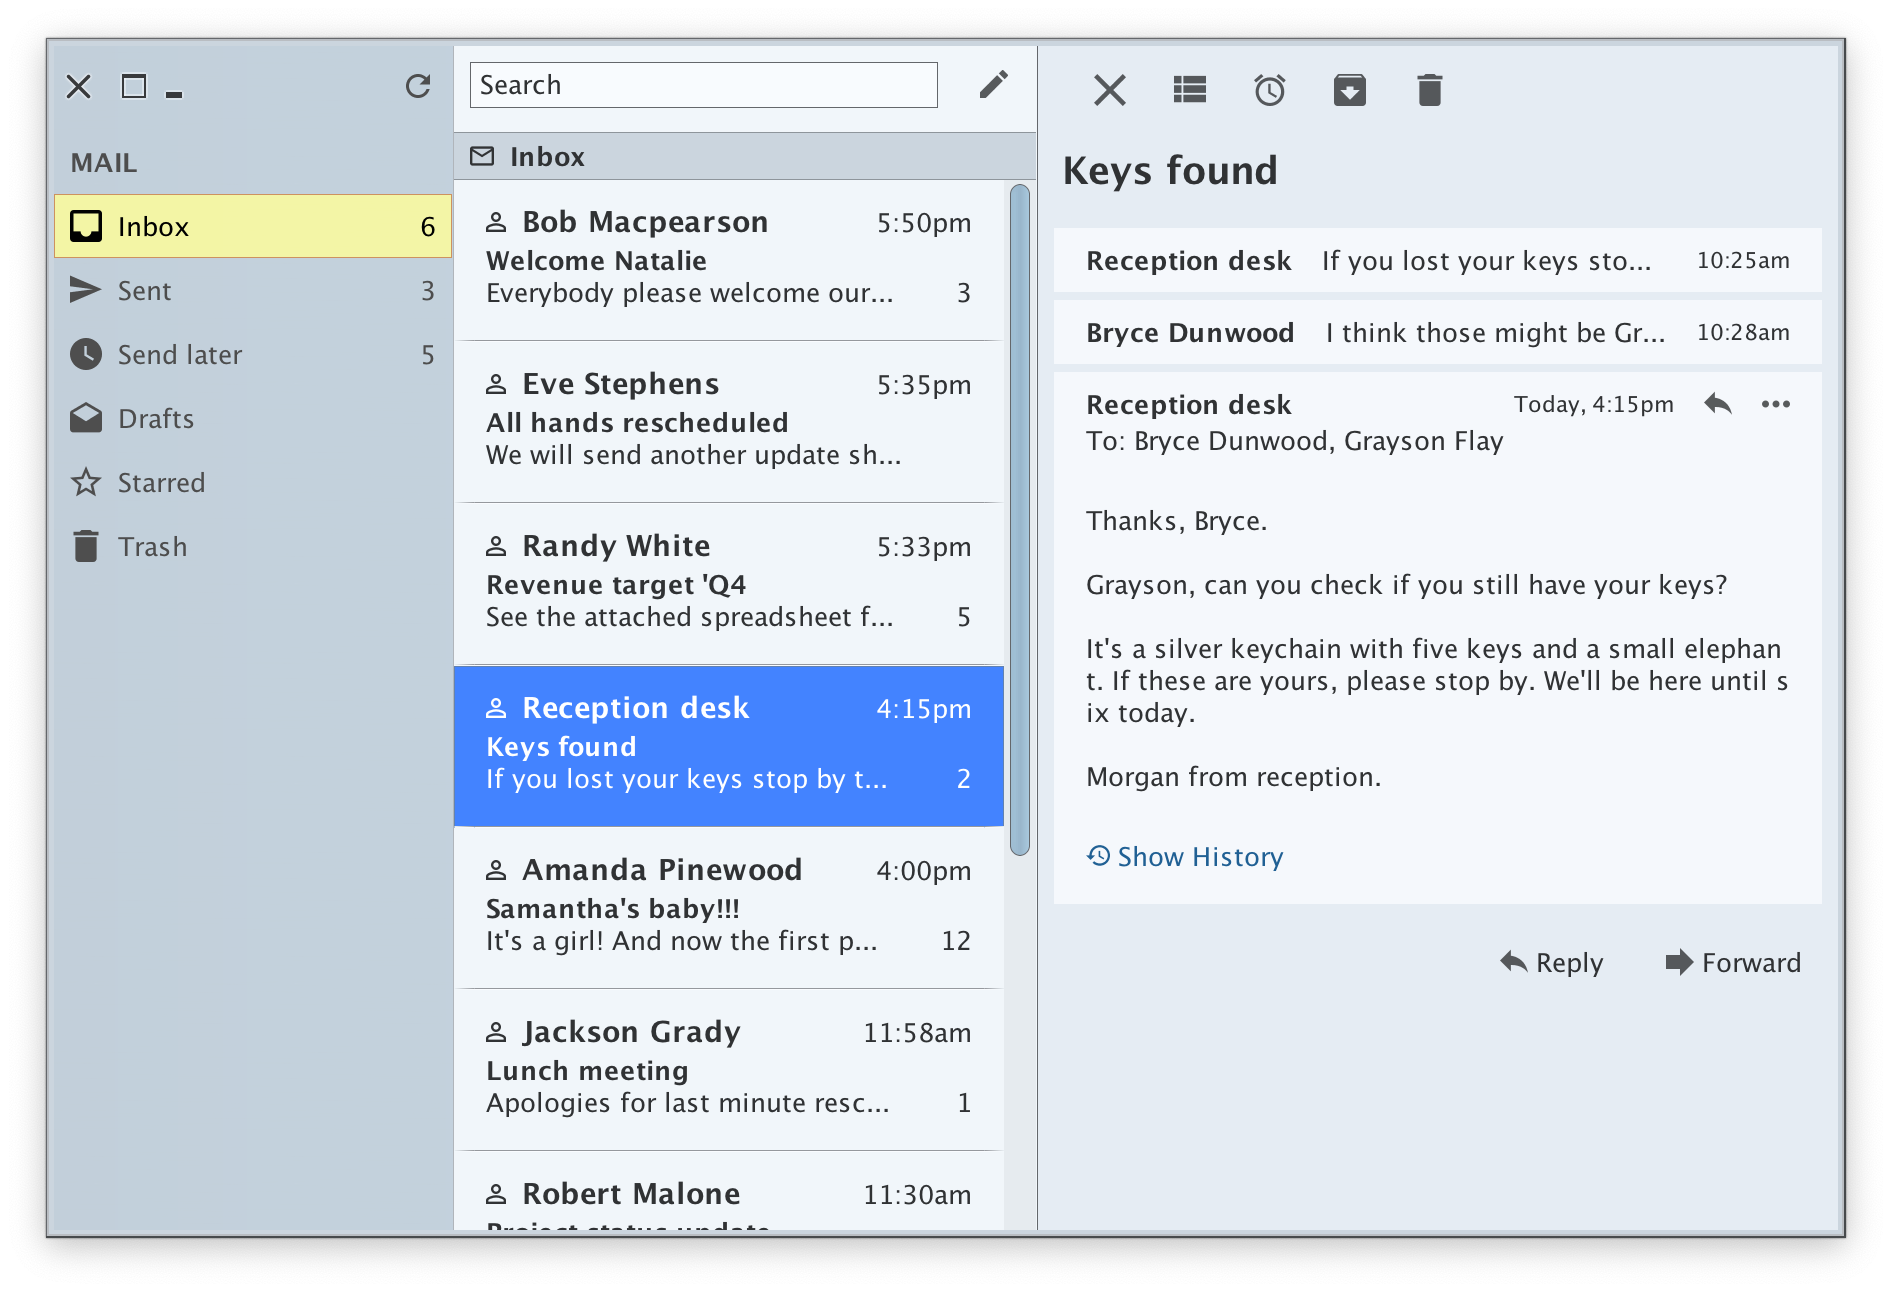
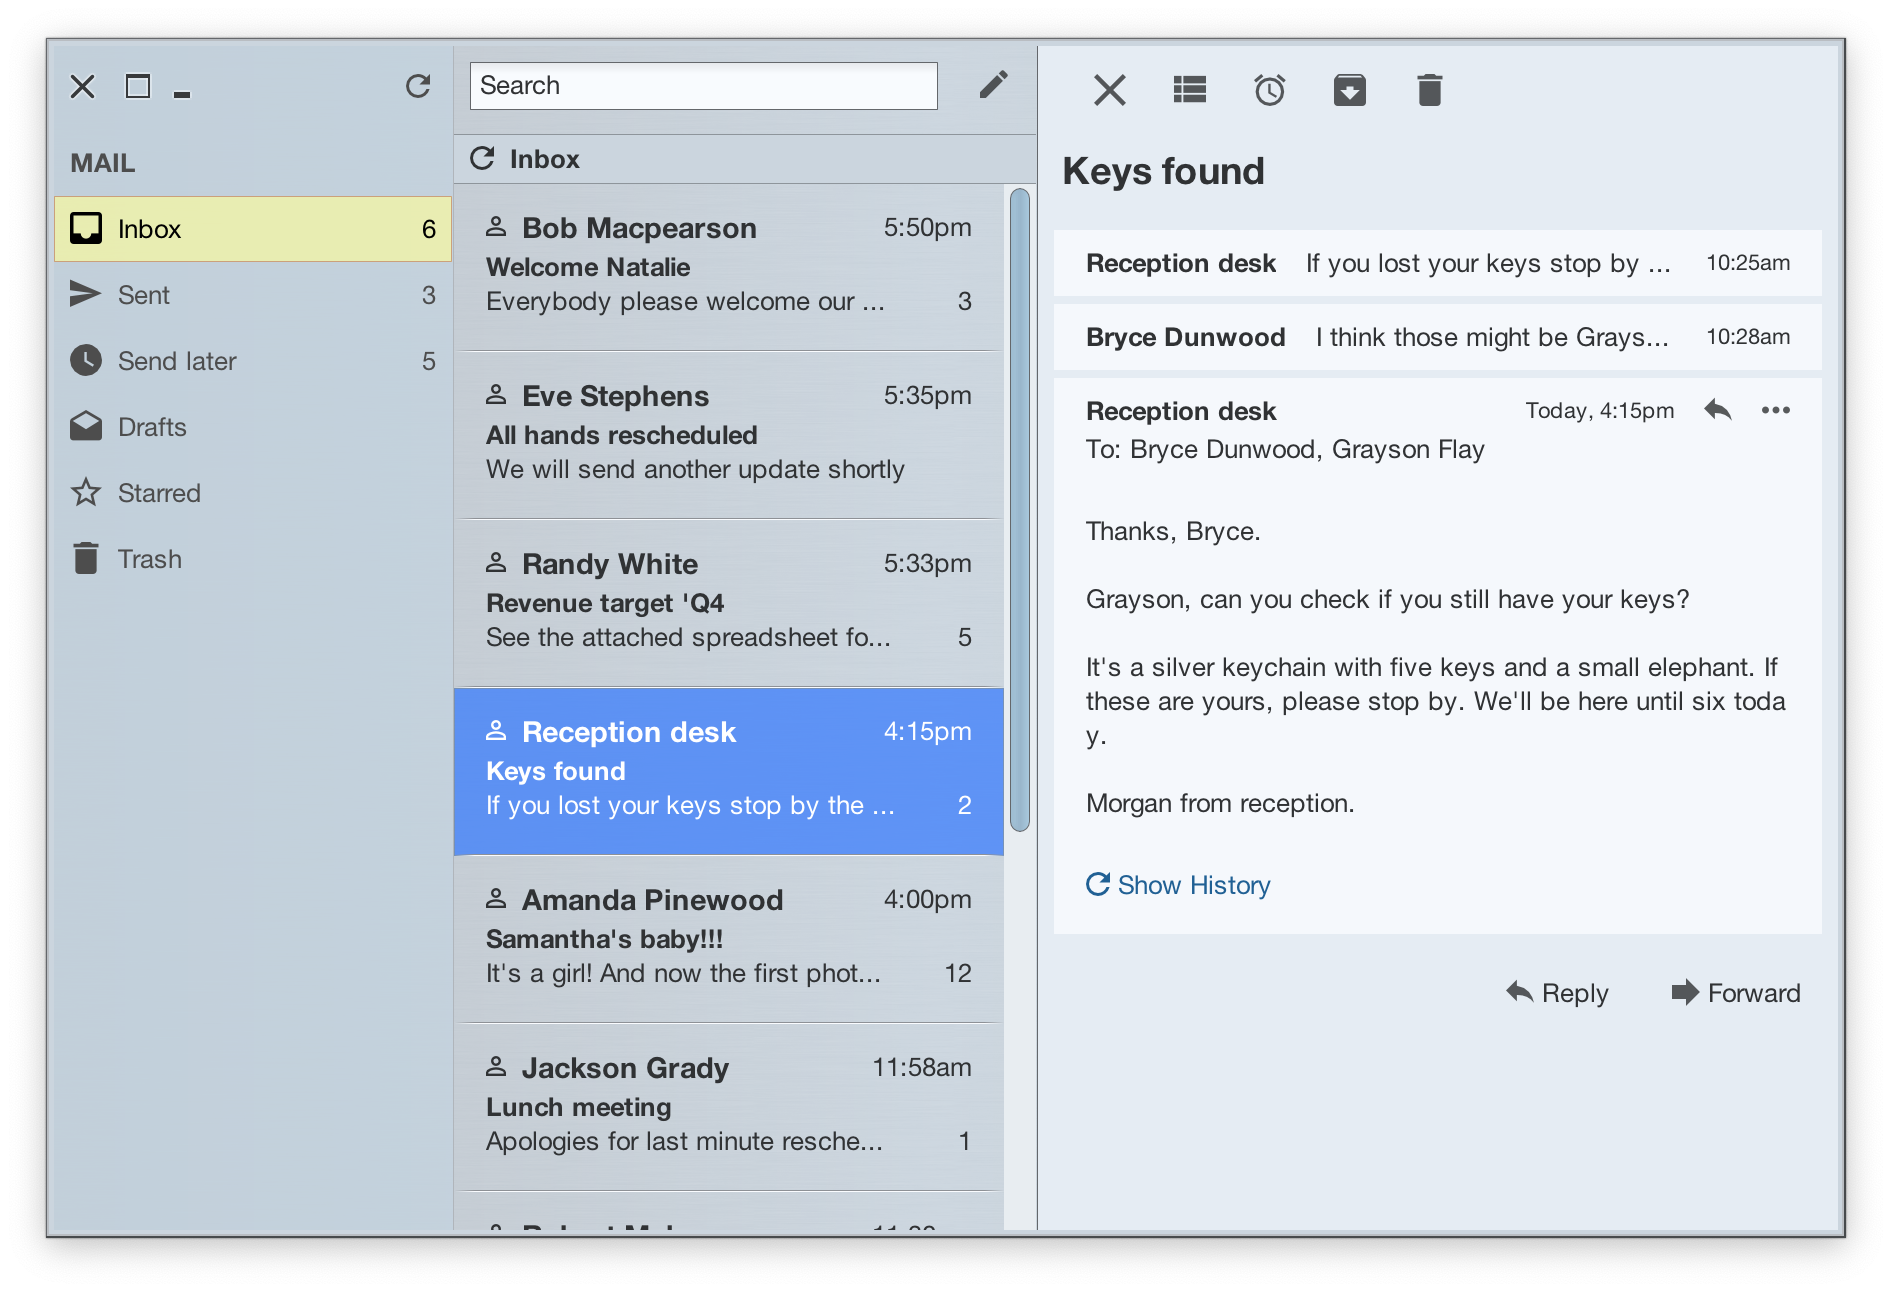
Minor fixes
Consistent naming in code and documentation, updated screenshot of the Visor Mail demo

diff --git a/component/src/main/java/org/pushingpixels/radiance/component/api/layout/TransitionLayout.java b/component/src/main/java/org/pushingpixels/radiance/component/api/layout/TransitionLayout.java
@@ -59,14 +59,14 @@ public class TransitionLayout implements LayoutManager {
      * are playing with calls to {@link Component#setVisible(boolean)}, this
      * property tracks the "real" visibility.
      */
-    private static final String SHOWING = "radiance.components.internal.layout.showing";
+    private static final String SHOWING = "radiance.component.internal.layout.showing";
 
     /**
      * Client property for storing the current bounds of a component. This is
      * used to perform animations on components that stay visible but change
      * location.
      */
-    private static final String BOUNDS = "radiance.components.internal.layout.bounds";
+    private static final String BOUNDS = "radiance.component.internal.layout.bounds";
 
     private WeakHashMap<Component, Timeline> boundsMap = new WeakHashMap<>();
 

diff --git a/component/src/main/java/org/pushingpixels/radiance/component/internal/ui/ribbon/AbstractBandControlPanelUI.java b/component/src/main/java/org/pushingpixels/radiance/component/internal/ui/ribbon/AbstractBandControlPanelUI.java
@@ -54,11 +54,11 @@ abstract class AbstractBandControlPanelUI extends BandControlPanelUI {
 
     protected JCommandButton forSizing;
 
-    public static final String TOP_ROW = "radiance.components.internal.ribbonBandControlPanel.topRow";
+    public static final String TOP_ROW = "radiance.component.internal.ribbonBandControlPanel.topRow";
 
-    public static final String MID_ROW = "radiance.components.internal.ribbonBandControlPanel.midRow";
+    public static final String MID_ROW = "radiance.component.internal.ribbonBandControlPanel.midRow";
 
-    public static final String BOTTOM_ROW = "radiance.components.internal.ribbonBandControlPanel.bottomRow";
+    public static final String BOTTOM_ROW = "radiance.component.internal.ribbonBandControlPanel.bottomRow";
 
     @Override
     public void installUI(JComponent c) {

diff --git a/component/src/main/java/org/pushingpixels/radiance/component/internal/utils/ComponentUtilities.java b/component/src/main/java/org/pushingpixels/radiance/component/internal/utils/ComponentUtilities.java
@@ -56,10 +56,10 @@ import java.util.List;
  */
 public class ComponentUtilities {
     public static final String TASKBAR_PROJECTION =
-            "radiance.components.internal.ribbon.taskbarProjection";
+            "radiance.component.internal.ribbon.taskbarProjection";
 
     public static final String TASKBAR_COMMAND =
-            "radiance.components.internal.ribbon.taskbarCommand";
+            "radiance.component.internal.ribbon.taskbarCommand";
 
     public static int getHLayoutGap(JCommandButton commandButton) {
         Font font = commandButton.getFont();

diff --git a/component/src/main/java/org/pushingpixels/radiance/component/internal/ui/common/BasicCommandButtonPanelUI.java b/component/src/main/java/org/pushingpixels/radiance/component/internal/ui/common/BasicCommandButtonPanelUI.java
@@ -50,7 +50,7 @@ public abstract class BasicCommandButtonPanelUI extends CommandButtonPanelUI {
      * Client property to mark the the command button panel to not draw the background fill
      */
     public static final String SKIP_BACKGROUND_FILL =
-            "radiance.components.internal.commandButtonPanel.ui.skipBackgroundFill";
+            "radiance.component.internal.commandButtonPanel.ui.skipBackgroundFill";
 
     /**
      * The associated command button panel.

diff --git a/component/src/main/java/org/pushingpixels/radiance/component/internal/ui/ribbon/BasicRibbonUI.java b/component/src/main/java/org/pushingpixels/radiance/component/internal/ui/ribbon/BasicRibbonUI.java
@@ -828,7 +828,7 @@ public abstract class BasicRibbonUI extends RibbonUI {
 
     protected abstract class TaskToggleButtonsHostPanel extends JPanel {
         private static final String IS_SQUISHED =
-                "radiance.components.internal.ribbon.taskToggleButtonsHostPanel.isSquished";
+                "radiance.component.internal.ribbon.taskToggleButtonsHostPanel.isSquished";
 
         @Override
         protected void paintComponent(Graphics g) {

diff --git a/component/src/main/java/org/pushingpixels/radiance/component/internal/ui/common/BasicCommandButtonUI.java b/component/src/main/java/org/pushingpixels/radiance/component/internal/ui/common/BasicCommandButtonUI.java
@@ -98,7 +98,7 @@ public abstract class BasicCommandButtonUI extends CommandButtonUI {
      * @see #disposePopupsActionListener
      */
     public static final String DONT_DISPOSE_POPUPS =
-            "radiance.components.internal.commandButton.ui.dontDisposePopups";
+            "radiance.component.internal.commandButton.ui.dontDisposePopups";
 
     /**
      * This listener disposes all popup panels when button's action is activated. An example of

diff --git a/component/src/main/java/org/pushingpixels/radiance/component/internal/ui/common/popup/BasicCommandPopupMenuUI.java b/component/src/main/java/org/pushingpixels/radiance/component/internal/ui/common/popup/BasicCommandPopupMenuUI.java
@@ -65,7 +65,7 @@ public abstract class BasicCommandPopupMenuUI extends BasicPopupPanelUI {
 
     protected JScrollablePanel<JPanel> menuItemsPanel;
 
-    public static final String FORCE_ICON = "radiance.components.internal.commandPopupMenu.forceIcon";
+    public static final String FORCE_ICON = "radiance.component.internal.commandPopupMenu.forceIcon";
 
     /**
      * Popup panel that hosts groups of icons.

diff --git a/docs/tools/svg-transcoder/svg-transcoder.md b/docs/tools/svg-transcoder/svg-transcoder.md
@@ -35,13 +35,13 @@ The `SvgBatchConverter` class is the entry point into the offline batch converte
 
 Assuming your `RADIANCE_VERSION` variable points to the latest version of the Radiance libraries, here is how you would run the converter pipeline for a single SVG source folder (note that the dependencies versions need to match the Radiance version, see [the list below](#dependency-versions-for-the-radiance-svg-transcoder)):
 
-<code>java <b>-cp</b> ../drop/$RADIANCE_VERSION/tools/radiance-svg-transcoder-$RADIANCE_VERSION.jar:../build/libs-core/batik-all-1.14.jar:../build/libs-core/xml-apis-1.4.01.jar:../build/libs-core/xml-apis-ext-1.3.04.jar:../build/libs-core/xmlgraphics-commons-2.6.jar SvgBatchConverter <b>sourceFolder=</b>../demos/components-demo/src/main/java/org/pushingpixels/radiance/demo/components/svg/tango/transcoded <b>outputPackageName=</b>org.pushingpixels.radiance.demo.component.svg.tango.transcoded <b>templateFile=</b>/org/pushingpixels/radiance/tools/svgtranscoder/api/java/SvgTranscoderTemplateRadiance.templ <b>outputLanguage=</b>java</code>
+<code>java <b>-cp</b> ../drop/$RADIANCE_VERSION/tools/radiance-svg-transcoder-$RADIANCE_VERSION.jar:../build/libs-core/batik-all-1.14.jar:../build/libs-core/xml-apis-1.4.01.jar:../build/libs-core/xml-apis-ext-1.3.04.jar:../build/libs-core/xmlgraphics-commons-2.6.jar SvgBatchConverter <b>sourceFolder=</b>../demos/component-demo/src/main/java/org/pushingpixels/radiance/demo/components/svg/tango/transcoded <b>outputPackageName=</b>org.pushingpixels.radiance.demo.component.svg.tango.transcoded <b>templateFile=</b>/org/pushingpixels/radiance/tools/svgtranscoder/api/java/SvgTranscoderTemplateRadiance.templ <b>outputLanguage=</b>java</code>
 
 The first part is enumerating all the jar files required for the converter - Radiance and Batik. In this sample script, the Radiance SVG transcoder jar is under `drop` folder after running the `gradlew copyJars` command. The Batik dependencies are under `build/libs-core` after running the `gradlew getCoreDependencies` command.
 
 The second part passes the mandatory parameters:
 
-* `../demos/components-demo/src/main/java/org/pushingpixels/radiance/demo/components/svg/tango/transcoded` as the location of the source SVG images - and the output transcoded classes
+* `../demos/component-demo/src/main/java/org/pushingpixels/radiance/demo/components/svg/tango/transcoded` as the location of the source SVG images - and the output transcoded classes
 * `org.pushingpixels.radiance.demo.component.svg.tango.transcoded` as the package name for the transcoded classes
 * `/org/pushingpixels/radiance/tools/svgtranscoder/api/java/SvgTranscoderTemplateRadiance.templ` as the path of the template file
 * `outputLanguage=java` to specify that the transcoded classes should be Java code

diff --git a/docs/common/common.md b/docs/common/common.md
@@ -72,8 +72,6 @@ The `RadianceIcon` extends the core `Icon` interface to allow scaling and colori
 
 The [SVG Transcoder library](../tools/svg-transcoder/svg-transcoder.md) provides tools for using SVG content via the `RadianceIcon` interface. SVG Transcoder can be used offline to transcode the SVG content into standalone Java / Kotlin classes that use Java2D canvas draw calls to render the original visuals with no additional runtime dependencies.
 
-<img src="https://raw.githubusercontent.com/kirill-grouchnikov/radiance/sunshine/docs/images/theming/complex-list-renderer.png" width="946" border=0 align="right">
-
 ### Icon colorization
 
 `RadianceIcon.setColorFilter` API provides support for colorizing Common icons.
@@ -81,7 +79,6 @@ The [SVG Transcoder library](../tools/svg-transcoder/svg-transcoder.md) provides
 [VisorMail](https://github.com/kirill-grouchnikov/radiance/tree/sunshine/demos/theming-apps/src/main/java/org/pushingpixels/radiance/demo/themingapps/mail) demo app illustrates the usage of colorized icons in [complex list renderers](../theming/renderers.md). Note the visuals of the selected elements in the destinations list on the left and the threads list in the middle - the icon is colorized with the same foreground color as the associated texts.
 
 <img src="https://raw.githubusercontent.com/kirill-grouchnikov/radiance/sunshine/docs/images/theming/complex-list-renderer.png" width="946" border=0 align="right">
-
 
 In the screenshot above, the first two icons in the middle panel (the one next to the search box and the one right below it next to the "Inbox" label) are colorized like this:
 

diff --git a/docs/tools/screenshot/screenshot.md b/docs/tools/screenshot/screenshot.md
@@ -36,9 +36,9 @@ For example, to run Screenshot to create screenshots for the Autumn skin:
 
 `RADIANCE_VERSION=5.0-SNAPSHOT`
 
-`KOTLIN_VERSION=1.4.30`
+`KOTLIN_VERSION=1.5.30`
 
-`KOTLIN_COROUTINES_VERSION=1.4.2`
+`KOTLIN_COROUTINES_VERSION=1.5.2`
 
 `CLASSPATH=../../drop/$RADIANCE_VERSION/tools/radiance-screenshot-$RADIANCE_VERSION.jar:../../drop/$RADIANCE_VERSION/tools/radiance-tools-common-$RADIANCE_VERSION.jar:../../drop/$RADIANCE_VERSION/core/radiance-theming-$RADIANCE_VERSION.jar:../../drop/$RADIANCE_VERSION/core/radiance-theming-extras-$RADIANCE_VERSION.jar:../../drop/$RADIANCE_VERSION/core/radiance-common-$RADIANCE_VERSION.jar:../../drop/$RADIANCE_VERSION/core/radiance-animation-$RADIANCE_VERSION.jar:../../drop/$RADIANCE_VERSION/demo/radiance-theming-demo-$RADIANCE_VERSION.jar:../../drop/$RADIANCE_VERSION/core/radiance-theming-extras-$RADIANCE_VERSION.jar:../../build/libs-tools/jgoodies-forms-1.9.0.jar:../../build/libs-tools/jgoodies-common-1.8.1.jar:../../build/libs-tools/kotlin-stdlib-$KOTLIN_VERSION.jar:../../build/libs-tools/kotlin-stdlib-common-$KOTLIN_VERSION.jar:../../build/libs-tools/kotlinx-coroutines-core-jvm-$KOTLIN_COROUTINES_VERSION.jar:../../build/libs-tools/kotlinx-coroutines-swing-$KOTLIN_COROUTINES_VERSION.jar`
 

diff --git a/docs/demos.md b/docs/demos.md
@@ -15,9 +15,9 @@
   * Small image viewer demo using command panel in `org.pushingpixels.radiance.demo.component.imageviewer` package
 * For **Component Kotlin extensions** - the `demos/component-ktx-demo` module
   * The main ribbon demo is `org.pushingpixels.radiance.demo.component.ktx.ribbon` file
-  * Breadcrumb demos in `org.pushingpixels.adiance.demo.component.ktx.bcb` package
-  * Command, popup and panel demos in `org.pushingpixels.adiance.demo.components.ktx.common` package
-  * Small image viewer demo using command panel in `org.pushingpixels.adiance.demo.component.ktx.imageviewer.ImageViewer` file
+  * Breadcrumb demos in `org.pushingpixels.radiance.demo.component.ktx.bcb` package
+  * Command, popup and panel demos in `org.pushingpixels.radiance.demo.component.ktx.common` package
+  * Small image viewer demo using command panel in `org.pushingpixels.radiance.demo.component.ktx.imageviewer.ImageViewer` file
 * For **Animation** - the `demos/animation-demo` module
   * Simple API usage in `org.pushingpixels.radiance.demo.animation` package
   * More complex samples in `org.pushingpixels.radiance.demo.animation.swing` package
